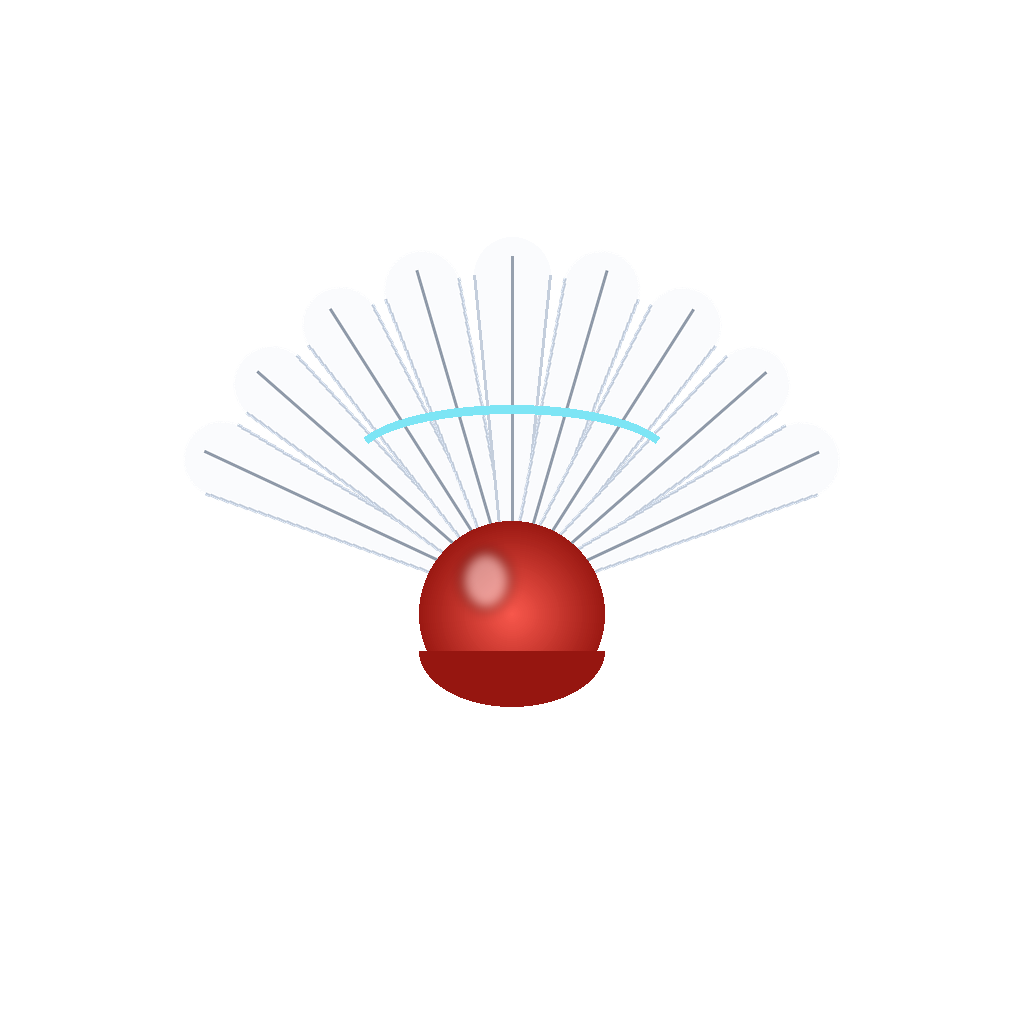
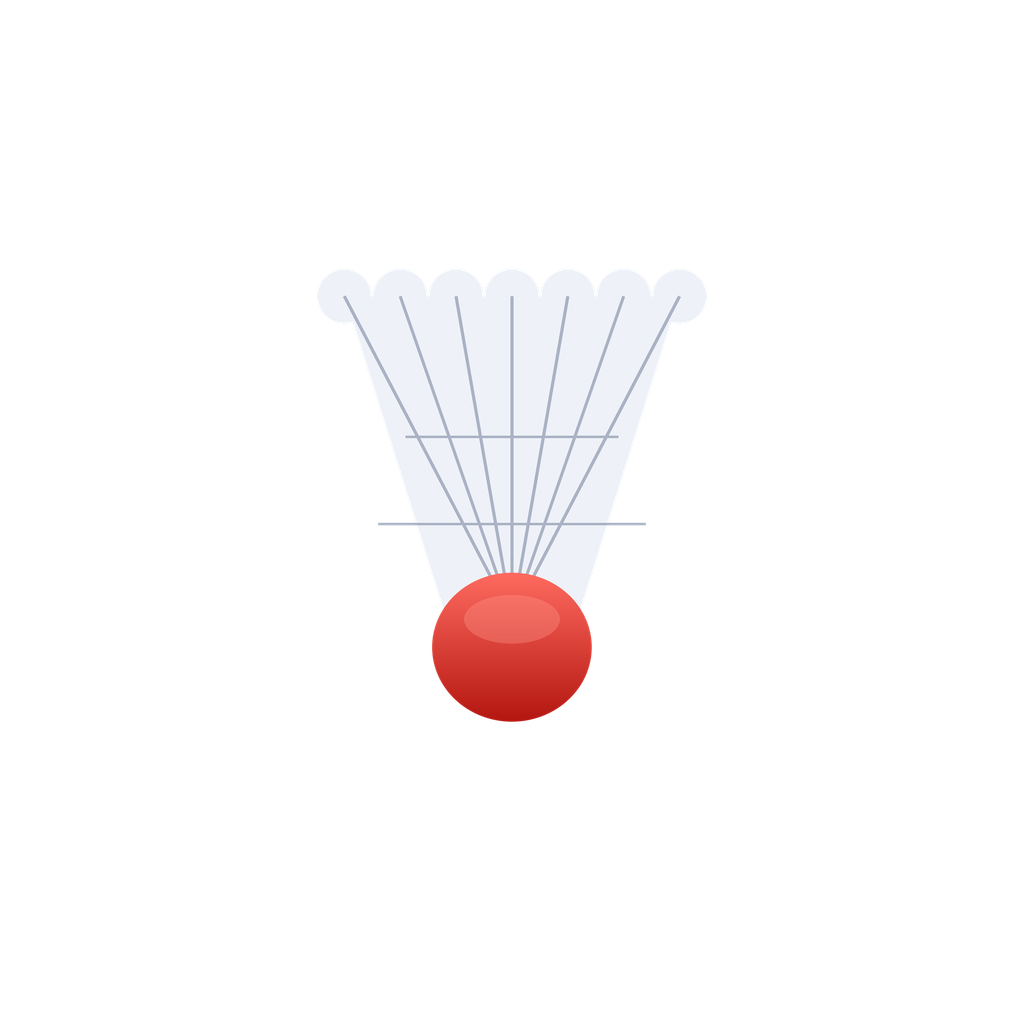
Updated graphics

diff --git a/src/components/Logo.tsx b/src/components/Logo.tsx
@@ -1,12 +1,49 @@
 import React from "react";
-import { Image, StyleSheet, Text, View, type StyleProp, type ViewStyle } from "react-native";
+import { StyleSheet, Text, View, type StyleProp, type ViewStyle } from "react-native";
+import Svg, {
+  Defs,
+  Ellipse,
+  Line,
+  LinearGradient,
+  Polygon,
+  Stop,
+} from "react-native-svg";
 import { C, F } from "../theme";
 
-const SOURCE = require("../../assets/splash.png");
+const FEATHER = "#EEF2F8";
+const FACET = "#AAB2C4";
+const TIP_X = [18.5, 28.5, 38.5, 50, 61.5, 71.5, 81.5]; // scalloped feather tips
 
-/** The shuttlecock mark on its own. */
+/** Vector shuttlecock mark — white feather cone + red cork. Resolution-independent. */
 export function LogoMark({ size = 28 }: { size?: number }) {
-  return <Image source={SOURCE} style={{ width: size, height: size }} resizeMode="contain" />;
+  return (
+    <Svg width={size} height={size} viewBox="0 0 100 100">
+      <Defs>
+        <LinearGradient id="cork" x1="0" y1="0" x2="0" y2="1">
+          <Stop offset="0" stopColor="#FF6B60" />
+          <Stop offset="1" stopColor="#B31610" />
+        </LinearGradient>
+      </Defs>
+
+      {/* feather cone */}
+      <Polygon points="38.3,74.5 61.7,74.5 81.5,11.5 18.5,11.5" fill={FEATHER} />
+      {/* scalloped tips */}
+      {TIP_X.map((x) => (
+        <Ellipse key={x} cx={x} cy={11.5} rx={5.6} ry={5.6} fill={FEATHER} />
+      ))}
+      {/* facet lines from cork neck to each tip */}
+      {TIP_X.map((x) => (
+        <Line key={`f${x}`} x1={50} y1={71.5} x2={x} y2={11.5} stroke={FACET} strokeWidth={0.8} />
+      ))}
+      {/* cross bands */}
+      <Line x1={31} y1={38} x2={69} y2={38} stroke={FACET} strokeWidth={0.6} />
+      <Line x1={26} y1={54} x2={74} y2={54} stroke={FACET} strokeWidth={0.6} />
+
+      {/* cork */}
+      <Ellipse cx={50} cy={77.5} rx={15} ry={14} fill="url(#cork)" />
+      <Ellipse cx={50} cy={72.5} rx={9} ry={5} fill="#FF8A80" opacity={0.5} />
+    </Svg>
+  );
 }
 
 /** Logo + CourtSide wordmark, used in headers and hero areas. */

diff --git a/docs/privacy.html b/docs/privacy.html
@@ -79,7 +79,7 @@
     <h2>Contact</h2>
     <p>Questions about this policy: <a href="mailto:utkarshg08@gmail.com">utkarshg08@gmail.com</a></p>
 
-    <footer>CourtSide · Developer: Utkarsh Agrawal · com.utkarsh.courtside</footer>
+    <footer>CourtSide · Developer: Utkarsh Agrawal · com.navalo.courtside</footer>
   </div>
 </body>
 </html>
